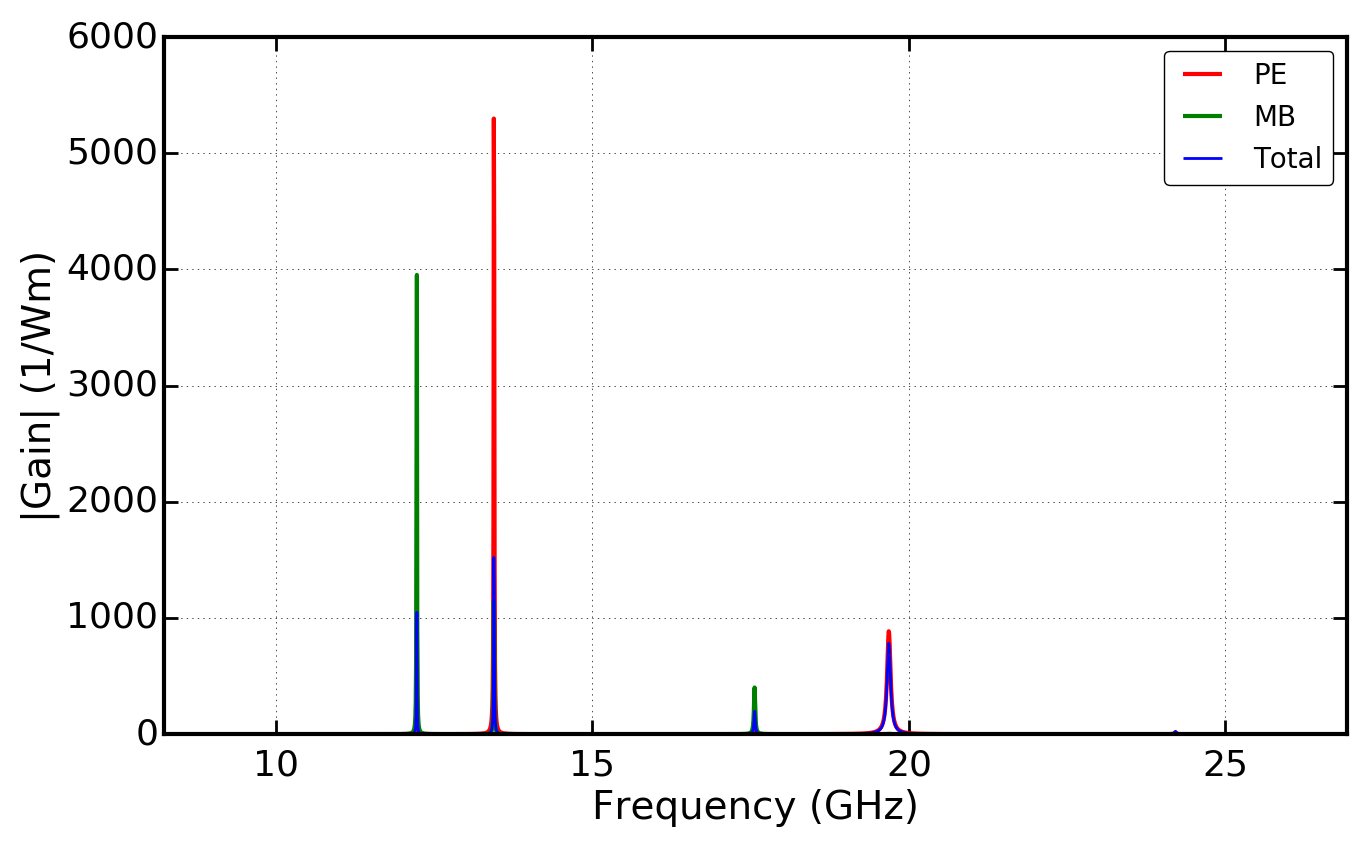
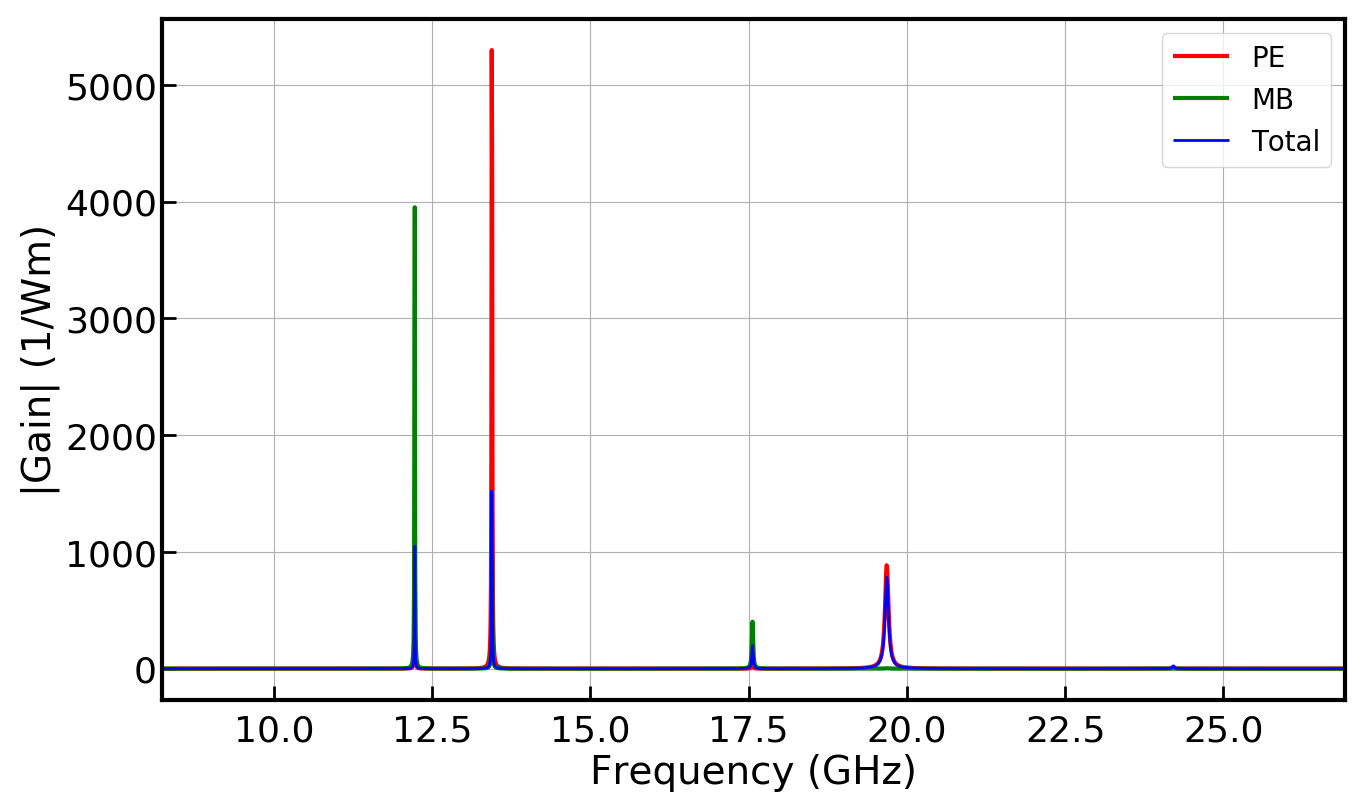
Updated naming to be more precise about AC power integral and energy integral.

Changed region(s): [[0.0308, 0.0, 0.9846, 0.9864], [0.0, 0.1541, 0.1231, 0.6165], [0.0308, 0.6473, 0.1231, 0.7707]]

diff --git a/backend/mode_calcs.py b/backend/mode_calcs.py
@@ -428,17 +428,17 @@ class Simmo(object):
             nnodes = 6
             if self.structure.inc_shape in self.structure.linear_element_shapes:
             # Semi-analytic integration following KD 9/9/16 notes. Fastest!
-                self.AC_mode_power = NumBAT.ac_mode_energy_int_v4(
+                self.AC_mode_power = NumBAT.ac_mode_power_int_v4(
                     self.num_modes, self.n_msh_el, self.n_msh_pts,
                     nnodes, self.table_nod, self.type_el, self.x_arr,
                     self.structure.nb_typ_el_AC, self.structure.c_tensor,
                     self.k_AC, self.Omega_AC, self.sol1)
             else:
                 if self.structure.inc_shape not in self.structure.curvilinear_element_shapes:
-                    print("Warning: ac_mode_energy_int - not sure if mesh contains curvi-linear elements", 
+                    print("Warning: ac_mode_power_int - not sure if mesh contains curvi-linear elements", 
                         "\n using slow quadrature integration by default.\n\n")
             # Integration by quadrature. Slowest.
-                self.AC_mode_power = NumBAT.ac_mode_energy_int(
+                self.AC_mode_power = NumBAT.ac_mode_power_int(
                     self.num_modes, self.n_msh_el, self.n_msh_pts,
                     nnodes, self.table_nod, self.type_el, self.x_arr,
                     self.structure.nb_typ_el_AC, self.structure.c_tensor_z,

diff --git a/tutorials/simo-tut_02-gain_spectra-npsave.py b/tutorials/simo-tut_02-gain_spectra-npsave.py
@@ -80,10 +80,11 @@ print('k_z of EM modes \n', np.round(np.real(sim_EM_pump.Eig_values), 4))
 # Only plot fields of fundamental (ival = 0) mode.
 plotting.plt_mode_fields(sim_EM_pump, xlim_min=0.4, xlim_max=0.4, ylim_min=0.4,
                          ylim_max=0.4, ivals=[0], contours=True, EM_AC='EM_E', 
-                         prefix_str=prefix_str)
+                         pdf_png='png', prefix_str=prefix_str)
 # Plot the H fields of the EM modes - specified with EM_AC='EM_H'.
 plotting.plt_mode_fields(sim_EM_pump, xlim_min=0.4, xlim_max=0.4, ylim_min=0.4,
-                         ylim_max=0.4, ivals=[0], EM_AC='EM_H', prefix_str=prefix_str)
+                         ylim_max=0.4, ivals=[0], EM_AC='EM_H', 
+                         pdf_png='png', prefix_str=prefix_str)
 
 # Calculate the EM effective index of the waveguide.
 n_eff_sim = np.real(sim_EM_pump.Eig_values[0]*((wl_nm*1e-9)/(2.*np.pi)))

diff --git a/lit_examples/simo-lit_01-Laude-AIPAdv_2013-silica.py b/lit_examples/simo-lit_01-Laude-AIPAdv_2013-silica.py
@@ -91,14 +91,14 @@ freq_min = 4  # GHz
 freq_max = 13  # GHz
 plotting.gain_spectra(sim_AC, SBS_gain, SBS_gain_PE, SBS_gain_MB, linewidth_Hz, k_AC,
     EM_ival_pump, EM_ival_Stokes, AC_ival, freq_min=freq_min, freq_max=freq_max,
-    semilogy=True, prefix_str=prefix_str)
+    semilogy=True, prefix_str=prefix_str, pdf_png='pdf')
 
 # Construct the SBS gain spectrum, built from Lorentzian peaks of the individual modes.
 freq_min = 9.5  # GHz
 freq_max = 10  # GHz
 plotting.gain_spectra(sim_AC, SBS_gain, SBS_gain_PE, SBS_gain_MB, linewidth_Hz, k_AC,
     EM_ival_pump, EM_ival_Stokes, AC_ival, freq_min=freq_min, freq_max=freq_max,
-    prefix_str=prefix_str, suffix_str='_zoom')
+    prefix_str=prefix_str, suffix_str='_zoom', pdf_png='pdf')
 
 end = time.time()
 print("\n Simulation time (sec.)", (end - start))

diff --git a/backend/integration.py b/backend/integration.py
@@ -53,9 +53,9 @@ def gain_and_qs(sim_EM_pump, sim_EM_Stokes, sim_AC, k_AC,
             (\varepsilon_a^{-1} - \varepsilon_b^{-1})  \varepsilon_0^{-1} ({\rm \hat n \cdot \mathbf{d}}) 
             \cdot ({\rm \hat n \cdot \mathbf{d}}) \big],\\
 
-            \alpha = \frac{\Omega^2}{P_{ac}} \int {\rm d}^2r \sum_{ijkl} \partial_i u_j^{*} \eta_{ijkl} \partial_k u_l,\\
+            \alpha = \frac{\Omega^2}{\mathcal{E}_{ac}} \int {\rm d}^2r \sum_{ijkl} \partial_i u_j^{*} \eta_{ijkl} \partial_k u_l,\\
 
-            \Gamma =  \frac{2 \omega \Omega {\rm Re} (Q_1 Q_1^*)}{P_p P_s P_{ac}} \frac{1}{\alpha} \frac{\alpha^2}{\alpha^2 + \kappa^2}.
+            \Gamma =  \frac{2 \omega \Omega {\rm Re} (Q_1 Q_1^*)}{P_p P_s \mathcal{E}_{ac}} \frac{1}{\alpha} \frac{\alpha^2}{\alpha^2 + \kappa^2}.
   
 
         Args:

diff --git a/lit_examples/simo-lit_06_2-Florez-NatComm_2016-d1160nm.py b/lit_examples/simo-lit_06_2-Florez-NatComm_2016-d1160nm.py
@@ -89,14 +89,14 @@ freq_min = 5  # GHz
 freq_max = 12  # GHz
 plotting.gain_spectra(sim_AC, SBS_gain, SBS_gain_PE, SBS_gain_MB, linewidth_Hz, k_AC,
     EM_ival_pump, EM_ival_Stokes, AC_ival, freq_min=freq_min, freq_max=freq_max,
-    prefix_str=prefix_str)
+    prefix_str=prefix_str, pdf_png='pdf')
 
 # Construct the SBS gain spectrum, built from Lorentzian peaks of the individual modes.
 freq_min = 5.2  # GHz
 freq_max = 5.7  # GHz
 plotting.gain_spectra(sim_AC, SBS_gain, SBS_gain_PE, SBS_gain_MB, linewidth_Hz, k_AC,
     EM_ival_pump, EM_ival_Stokes, AC_ival, freq_min=freq_min, freq_max=freq_max,
-    semilogy=True, prefix_str=prefix_str)
+    semilogy=True, prefix_str=prefix_str, pdf_png='pdf')
 
 end = time.time()
 print("\n Simulation time (sec.)", (end - start))

diff --git a/lit_examples/simo-lit_07-Kittlaus-NatPhot_2016.py b/lit_examples/simo-lit_07-Kittlaus-NatPhot_2016.py
@@ -127,7 +127,7 @@ freq_min = 4.2  # GHz
 freq_max = 4.3  # GHz
 plotting.gain_spectra(sim_AC, SBS_gain, SBS_gain_PE, SBS_gain_MB, linewidth_Hz, k_AC,
     EM_ival_pump, EM_ival_Stokes, AC_ival, freq_min=freq_min, freq_max=freq_max,
-    prefix_str=prefix_str, suffix_str='')
+    prefix_str=prefix_str, suffix_str='', pdf_png='pdf')
 
 end = time.time()
 print("\n Simulation time (sec.)", (end - start))

diff --git a/lit_examples/simo-lit_02-Laude-AIPAdv_2013-silicon.py b/lit_examples/simo-lit_02-Laude-AIPAdv_2013-silicon.py
@@ -92,7 +92,7 @@ freq_min = 20  # GHz
 freq_max = 45  # GHz
 plotting.gain_spectra(sim_AC, SBS_gain, SBS_gain_PE, SBS_gain_MB, linewidth_Hz, k_AC,
     EM_ival_pump, EM_ival_Stokes, AC_ival, freq_min=freq_min, freq_max=freq_max,
-    semilogy=True, prefix_str=prefix_str)
+    semilogy=True, prefix_str=prefix_str, pdf_png='pdf')
 
 end = time.time()
 print("\n Simulation time (sec.)", (end - start))

diff --git a/lit_examples/simo-lit_09-Morrison-Optica_2017.py b/lit_examples/simo-lit_09-Morrison-Optica_2017.py
@@ -131,7 +131,7 @@ freq_min = 6  # GHz
 freq_max = 8.5  # GHz
 plotting.gain_spectra(sim_AC, SBS_gain, SBS_gain_PE, SBS_gain_MB, linewidth_Hz, k_AC,
     EM_ival_pump, EM_ival_Stokes, AC_ival, freq_min=freq_min, freq_max=freq_max,
-    prefix_str=prefix_str)
+    prefix_str=prefix_str, pdf_png='pdf')
 
 end = time.time()
 print("\n Simulation time (sec.)", (end - start))

diff --git a/lit_examples/simo-lit_06_1-Florez-NatComm_2016-d550nm.py b/lit_examples/simo-lit_06_1-Florez-NatComm_2016-d550nm.py
@@ -89,7 +89,7 @@ freq_min = 5  # GHz
 freq_max = 12  # GHz
 plotting.gain_spectra(sim_AC, SBS_gain, SBS_gain_PE, SBS_gain_MB, linewidth_Hz, k_AC,
     EM_ival_pump, EM_ival_Stokes, AC_ival, freq_min=freq_min, freq_max=freq_max,
-    prefix_str=prefix_str)
+    prefix_str=prefix_str, pdf_png='pdf')
 
 end = time.time()
 print("\n Simulation time (sec.)", (end - start))
